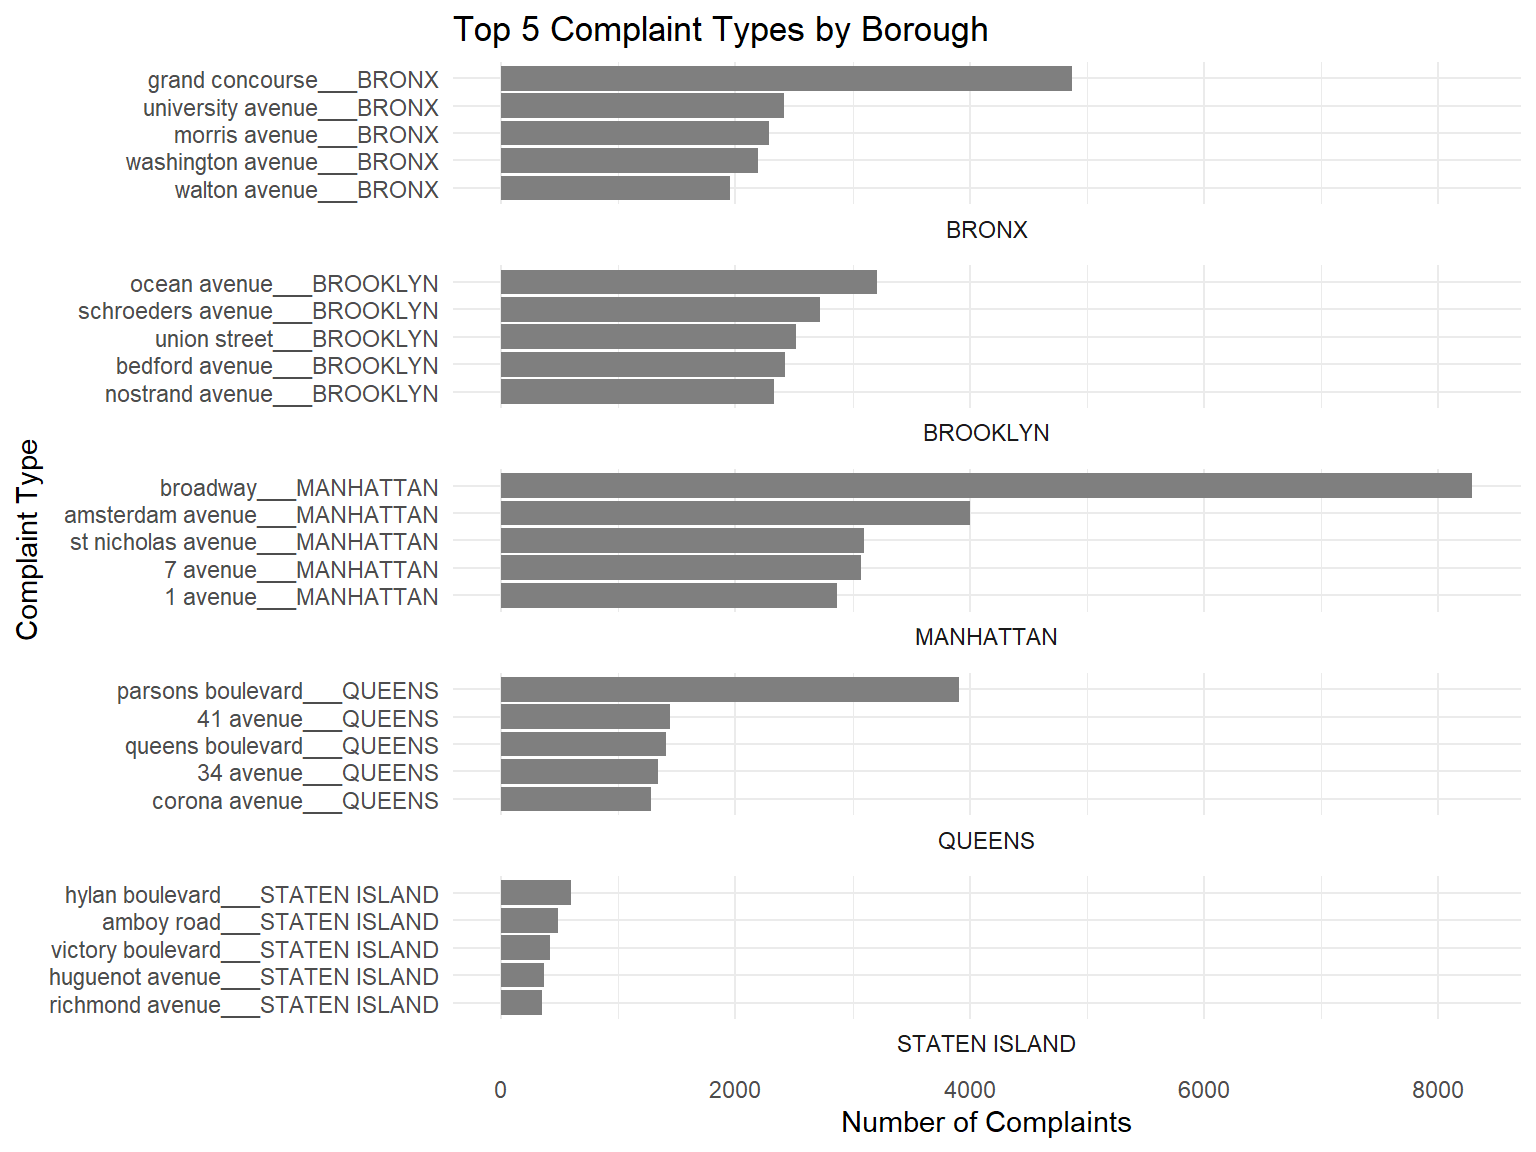
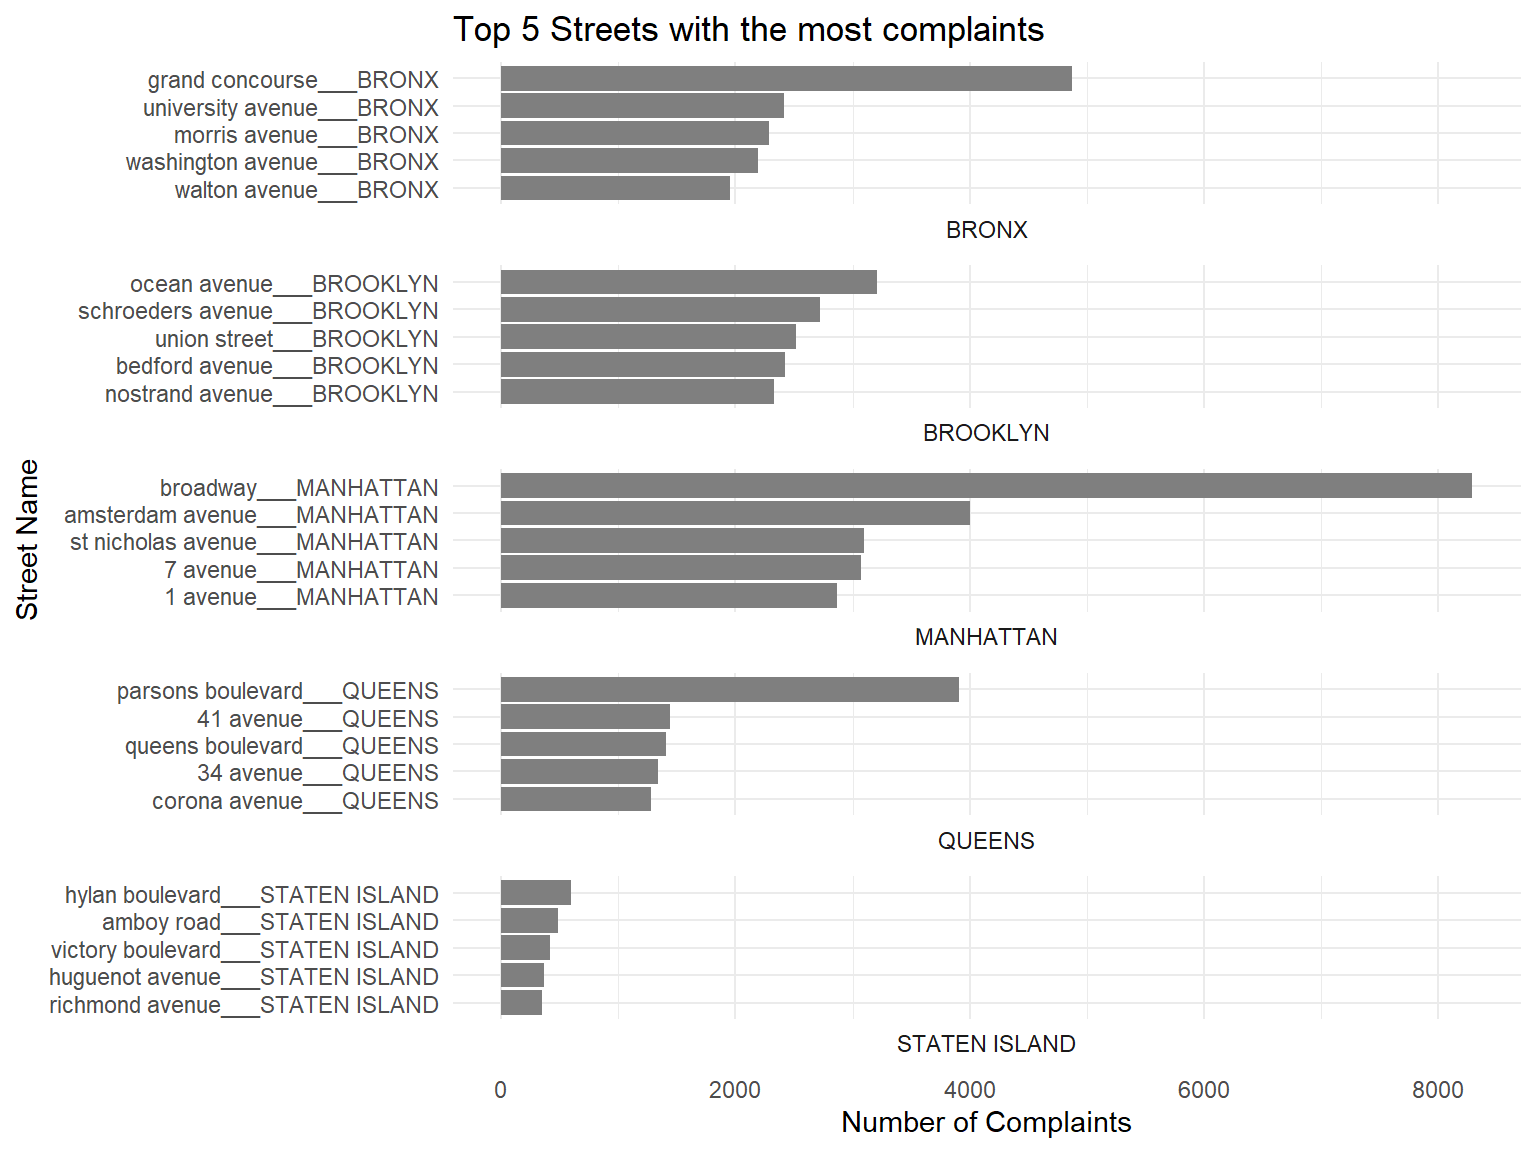
Rendered after fixing typos

Changed region(s): [[0.3438, 0.0, 0.6875, 0.0625], [0.0, 0.375, 0.0312, 0.5625]]

diff --git a/docs/results.html b/docs/results.html
@@ -411,9 +411,9 @@ Unspecified
 <span id="cb12-18"><a href="#cb12-18" aria-hidden="true" tabindex="-1"></a><span class="co"># Use reorder_within to sort bars within each facet</span></span>
 <span id="cb12-19"><a href="#cb12-19" aria-hidden="true" tabindex="-1"></a><span class="fu">ggplot</span>(service_data_top, <span class="fu">aes</span>(<span class="at">x =</span> Total_Complaints, <span class="at">y =</span> <span class="fu">reorder_within</span>(<span class="st">`</span><span class="at">Street Name</span><span class="st">`</span>, Total_Complaints, Borough), <span class="at">fill =</span> <span class="st">`</span><span class="at">Street Name</span><span class="st">`</span>)) <span class="sc">+</span></span>
 <span id="cb12-20"><a href="#cb12-20" aria-hidden="true" tabindex="-1"></a>  <span class="fu">geom_col</span>() <span class="sc">+</span></span>
-<span id="cb12-21"><a href="#cb12-21" aria-hidden="true" tabindex="-1"></a>  <span class="fu">labs</span>(<span class="at">title =</span> <span class="st">"Top 5 Complaint Types by Borough"</span>,</span>
+<span id="cb12-21"><a href="#cb12-21" aria-hidden="true" tabindex="-1"></a>  <span class="fu">labs</span>(<span class="at">title =</span> <span class="st">"Top 5 Streets with the most complaints"</span>,</span>
 <span id="cb12-22"><a href="#cb12-22" aria-hidden="true" tabindex="-1"></a>       <span class="at">x =</span> <span class="st">"Number of Complaints"</span>,</span>
-<span id="cb12-23"><a href="#cb12-23" aria-hidden="true" tabindex="-1"></a>       <span class="at">y =</span> <span class="st">"Complaint Type"</span>) <span class="sc">+</span></span>
+<span id="cb12-23"><a href="#cb12-23" aria-hidden="true" tabindex="-1"></a>       <span class="at">y =</span> <span class="st">"Street Name"</span>) <span class="sc">+</span></span>
 <span id="cb12-24"><a href="#cb12-24" aria-hidden="true" tabindex="-1"></a>  <span class="fu">scale_fill_manual</span>(<span class="at">values =</span> custom_colors) <span class="sc">+</span></span>
 <span id="cb12-25"><a href="#cb12-25" aria-hidden="true" tabindex="-1"></a>  <span class="fu">theme_minimal</span>() <span class="sc">+</span></span>
 <span id="cb12-26"><a href="#cb12-26" aria-hidden="true" tabindex="-1"></a>  <span class="fu">facet_wrap</span>(<span class="sc">~</span>Borough, <span class="at">scales =</span> <span class="st">"free_y"</span>, <span class="at">ncol =</span> <span class="dv">1</span>, <span class="at">strip.position =</span> <span class="st">"bottom"</span>) <span class="sc">+</span></span>
@@ -558,14 +558,15 @@ Unspecified
 <div class="cell">
 <details>
 <summary>Code</summary>
-<div class="sourceCode cell-code" id="cb16"><pre class="sourceCode r code-with-copy"><code class="sourceCode r"><span id="cb16-1"><a href="#cb16-1" aria-hidden="true" tabindex="-1"></a>status_order <span class="ot">&lt;-</span> <span class="fu">c</span>(<span class="st">"Open"</span>, <span class="st">"Assigned"</span>, <span class="st">"Pending"</span>, <span class="st">"Started"</span>, <span class="st">"In Progress"</span>, <span class="st">"Closed"</span>)</span>
-<span id="cb16-2"><a href="#cb16-2" aria-hidden="true" tabindex="-1"></a></span>
-<span id="cb16-3"><a href="#cb16-3" aria-hidden="true" tabindex="-1"></a>service_data_temp<span class="sc">$</span>Status <span class="ot">&lt;-</span> <span class="fu">factor</span>(service_data_temp<span class="sc">$</span>Status, , <span class="at">levels =</span> status_order)</span>
-<span id="cb16-4"><a href="#cb16-4" aria-hidden="true" tabindex="-1"></a></span>
-<span id="cb16-5"><a href="#cb16-5" aria-hidden="true" tabindex="-1"></a>contingency_table <span class="ot">&lt;-</span> <span class="fu">table</span>(service_data_temp<span class="sc">$</span>Agency, service_data_temp<span class="sc">$</span>Status)</span>
-<span id="cb16-6"><a href="#cb16-6" aria-hidden="true" tabindex="-1"></a></span>
-<span id="cb16-7"><a href="#cb16-7" aria-hidden="true" tabindex="-1"></a><span class="co"># Create a mosaic plot using base R</span></span>
-<span id="cb16-8"><a href="#cb16-8" aria-hidden="true" tabindex="-1"></a><span class="fu">mosaicplot</span>(contingency_table, <span class="at">main =</span> <span class="st">"Distribution of Complaint Status by NYC Agencies"</span>, <span class="at">las=</span><span class="dv">2</span>)</span></code><button title="Copy to Clipboard" class="code-copy-button"><i class="bi"></i></button></pre></div>
+<div class="sourceCode cell-code" id="cb16"><pre class="sourceCode r code-with-copy"><code class="sourceCode r"><span id="cb16-1"><a href="#cb16-1" aria-hidden="true" tabindex="-1"></a><span class="fu">library</span>(RColorBrewer)</span>
+<span id="cb16-2"><a href="#cb16-2" aria-hidden="true" tabindex="-1"></a>status_order <span class="ot">&lt;-</span> <span class="fu">c</span>(<span class="st">"Open"</span>, <span class="st">"Assigned"</span>, <span class="st">"Pending"</span>, <span class="st">"Started"</span>, <span class="st">"In Progress"</span>, <span class="st">"Closed"</span>)</span>
+<span id="cb16-3"><a href="#cb16-3" aria-hidden="true" tabindex="-1"></a></span>
+<span id="cb16-4"><a href="#cb16-4" aria-hidden="true" tabindex="-1"></a>service_data_temp<span class="sc">$</span>Status <span class="ot">&lt;-</span> <span class="fu">factor</span>(service_data_temp<span class="sc">$</span>Status, , <span class="at">levels =</span> status_order)</span>
+<span id="cb16-5"><a href="#cb16-5" aria-hidden="true" tabindex="-1"></a></span>
+<span id="cb16-6"><a href="#cb16-6" aria-hidden="true" tabindex="-1"></a>contingency_table <span class="ot">&lt;-</span> <span class="fu">table</span>(service_data_temp<span class="sc">$</span>Agency, service_data_temp<span class="sc">$</span>Status)</span>
+<span id="cb16-7"><a href="#cb16-7" aria-hidden="true" tabindex="-1"></a></span>
+<span id="cb16-8"><a href="#cb16-8" aria-hidden="true" tabindex="-1"></a><span class="co"># Create a mosaic plot using base R</span></span>
+<span id="cb16-9"><a href="#cb16-9" aria-hidden="true" tabindex="-1"></a><span class="fu">mosaicplot</span>(contingency_table, <span class="at">main =</span> <span class="st">"Distribution of Complaint Status by NYC Agencies"</span>, <span class="at">las=</span><span class="dv">2</span>)</span></code><button title="Copy to Clipboard" class="code-copy-button"><i class="bi"></i></button></pre></div>
 </details>
 <div class="cell-output-display">
 <p><img src="results_files/figure-html/unnamed-chunk-12-1.png" class="img-fluid" width="960"></p>
@@ -587,7 +588,7 @@ Unspecified
 <div class="sourceCode cell-code" id="cb17"><pre class="sourceCode r code-with-copy"><code class="sourceCode r"><span id="cb17-1"><a href="#cb17-1" aria-hidden="true" tabindex="-1"></a>contingency_table <span class="ot">&lt;-</span> <span class="fu">table</span>(service_data_temp<span class="sc">$</span>Borough, service_data_temp<span class="sc">$</span>Agency)</span>
 <span id="cb17-2"><a href="#cb17-2" aria-hidden="true" tabindex="-1"></a></span>
 <span id="cb17-3"><a href="#cb17-3" aria-hidden="true" tabindex="-1"></a><span class="co"># Create a mosaic plot using base R</span></span>
-<span id="cb17-4"><a href="#cb17-4" aria-hidden="true" tabindex="-1"></a><span class="fu">mosaicplot</span>(contingency_table, <span class="at">main =</span> <span class="st">"Distribution of Agencies handling complaints, by NYC Boroughs"</span>, <span class="at">las=</span><span class="dv">2</span>)</span></code><button title="Copy to Clipboard" class="code-copy-button"><i class="bi"></i></button></pre></div>
+<span id="cb17-4"><a href="#cb17-4" aria-hidden="true" tabindex="-1"></a><span class="fu">mosaicplot</span>(contingency_table, <span class="at">main =</span> <span class="st">"Distribution of Agencies handling complaints, by NYC Boroughs"</span>, <span class="at">las=</span><span class="dv">2</span>,<span class="at">highlighting =</span> <span class="dv">2</span>)</span></code><button title="Copy to Clipboard" class="code-copy-button"><i class="bi"></i></button></pre></div>
 </details>
 <div class="cell-output-display">
 <p><img src="results_files/figure-html/unnamed-chunk-13-1.png" class="img-fluid" width="960"></p>

diff --git a/docs/conclusion.html b/docs/conclusion.html
@@ -169,7 +169,7 @@ ul.task-list li input[type="checkbox"] {
 
 <section id="key-takeaways" class="level3" data-number="5.0.1">
 <h3 data-number="5.0.1" class="anchored" data-anchor-id="key-takeaways"><span class="header-section-number">5.0.1</span> Key Takeaways</h3>
-<p>The analysis and visualization of 311 NYC tickets helped in revealing the major problems faced by the residents of New York. Data explorations through various visualization plots helped us gain an insight not only about the different 311 issues across the different but also how efficiently these are dealt by the various agencies and the average time for resolution.</p>
+<p>The analysis and visualization of 311 NYC tickets helped in revealing the major problems faced by the residents of New York. Data explorations through various visualization plots helped us gain an insight not only about the different 311 issues across the different locations but also how efficiently these issues are dealt by the various agencies and the average time for resolution which may influence the quality of municipal care in different locations.</p>
 <p>Here are the key takeaways -</p>
 <ul>
 <li>Brooklyn had the highest 311 tickets raised as compared to the other boroughs while Staten Island had the least in the time period between Sept 2023-Nov 2023.</li>

diff --git a/docs/scripts/myscript.js b/docs/scripts/myscript.js
@@ -81,7 +81,7 @@ function updateChart() {
         .attr("x", 50+innerWidth / 2)
         .attr("y", innerHeight + margin.bottom - 10)
         .style("text-anchor", "middle")
-        .text("Issue Types");
+        .text("Complaint Types");
 
       svg.append("text")
         .attr("class", "y-label")
